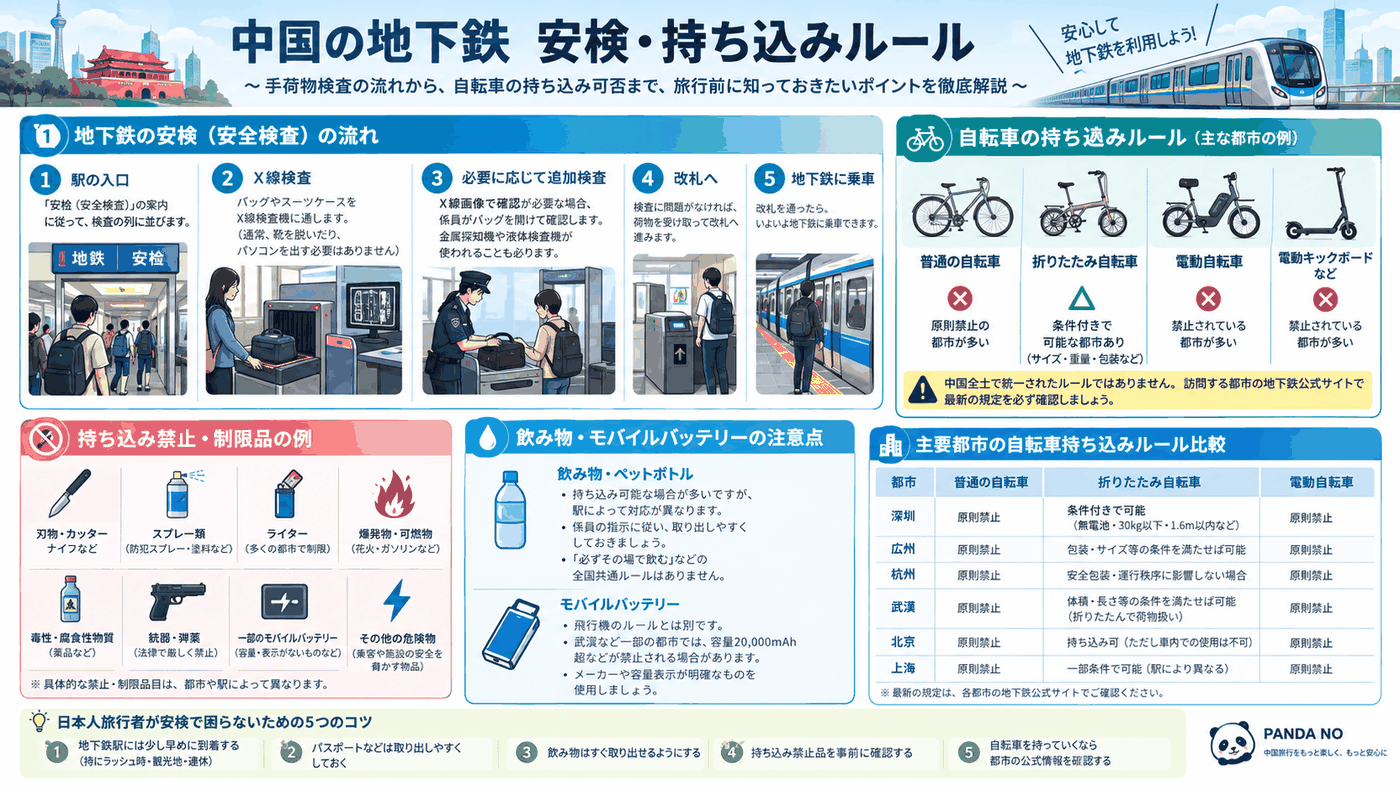
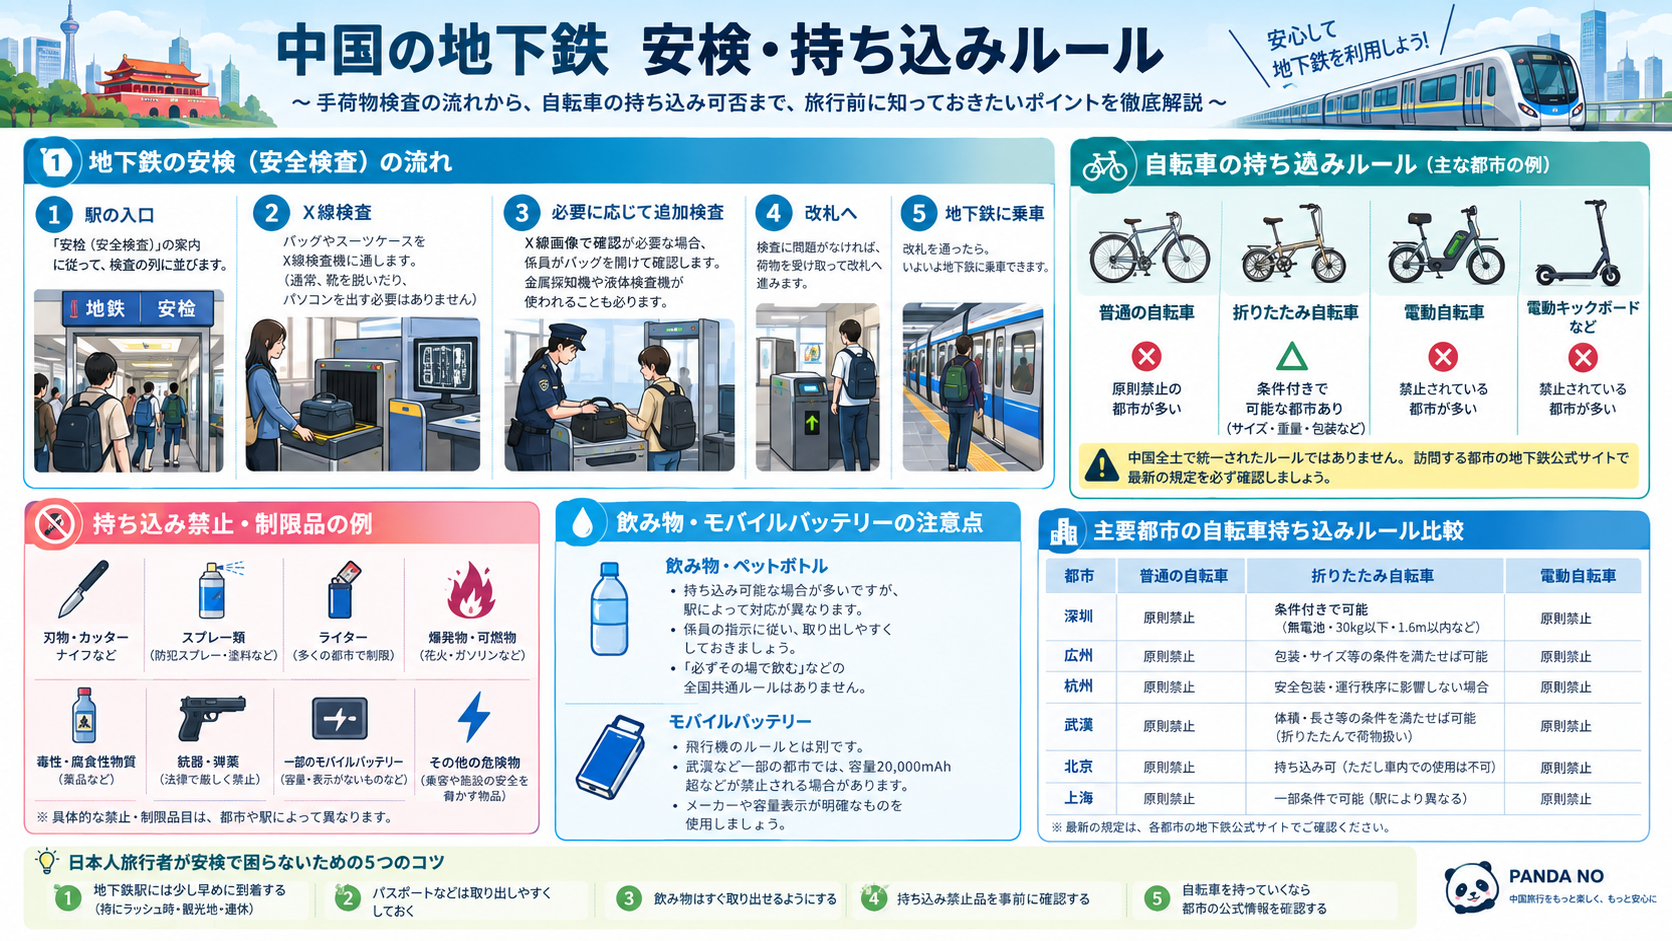
补充图片点击放大功能，并替换subway-security的模糊配图
新增全站通用的图片点击放大(轻量级lightbox，纯CSS+JS无依赖)，之前
整站图片都没有放大查看功能。排除了面包屑里链接内的logo小图标，
避免点击冲突(实测发现过一次误触发跳转首页的bug，已修正为过滤
掉<a>标签内的图片)。

同时发现subway-security.html的配图之所以字看不清，是因为被压缩成
了256色索引调色板(P mode)，边缘发虚。换成"各类照片"里的原始RGB
高清版本(1672x941)，文字清晰度明显提升。已用headless chrome实测
点击放大效果确认生效。

Claude-Session: https://claude.ai/code/session_01DeCiN6Rs6qMkF8kbADA5Dv

diff --git a/js/main.js b/js/main.js
@@ -17,6 +17,40 @@ document.addEventListener("DOMContentLoaded", function () {
   });
 });
 
+// 記事内画像:クリックで拡大表示(ライトボックス)
+document.addEventListener("DOMContentLoaded", function () {
+  var contentImgs = Array.prototype.filter.call(
+    document.querySelectorAll("article.content img"),
+    function (img) { return !img.closest("a"); }
+  );
+  if (!contentImgs.length) return;
+
+  var overlay = document.createElement("div");
+  overlay.className = "img-lightbox";
+  overlay.hidden = true;
+  var overlayImg = document.createElement("img");
+  overlay.appendChild(overlayImg);
+  document.body.appendChild(overlay);
+
+  function closeLightbox() {
+    overlay.hidden = true;
+    overlayImg.src = "";
+  }
+
+  overlay.addEventListener("click", closeLightbox);
+  document.addEventListener("keydown", function (e) {
+    if (e.key === "Escape") closeLightbox();
+  });
+
+  contentImgs.forEach(function (img) {
+    img.addEventListener("click", function () {
+      overlayImg.src = img.currentSrc || img.src;
+      overlayImg.alt = img.alt || "";
+      overlay.hidden = false;
+    });
+  });
+});
+
 // ホーム:ヒーロー画像を数秒ごとにフェード切替
 document.addEventListener("DOMContentLoaded", function () {
   var stage = document.getElementById("heroStage");

diff --git a/css/style.css b/css/style.css
@@ -1116,6 +1116,29 @@ article.content .ad-slot.inline-pr p a:hover { text-decoration: underline; }
   font-weight: 500;
 }
 
+/* 記事内画像:クリックで拡大表示(ライトボックス、リンク内の画像は対象外) */
+article.content img:not(a img) {
+  cursor: zoom-in;
+}
+.img-lightbox {
+  position: fixed;
+  inset: 0;
+  background: rgba(0, 0, 0, 0.85);
+  display: flex;
+  align-items: center;
+  justify-content: center;
+  padding: 24px;
+  z-index: 1000;
+  cursor: zoom-out;
+}
+.img-lightbox[hidden] { display: none; }
+.img-lightbox img {
+  max-width: 100%;
+  max-height: 100%;
+  border-radius: 4px;
+  cursor: zoom-out;
+}
+
 .article-layout {
   display: grid;
   grid-template-columns: 1fr 260px;
